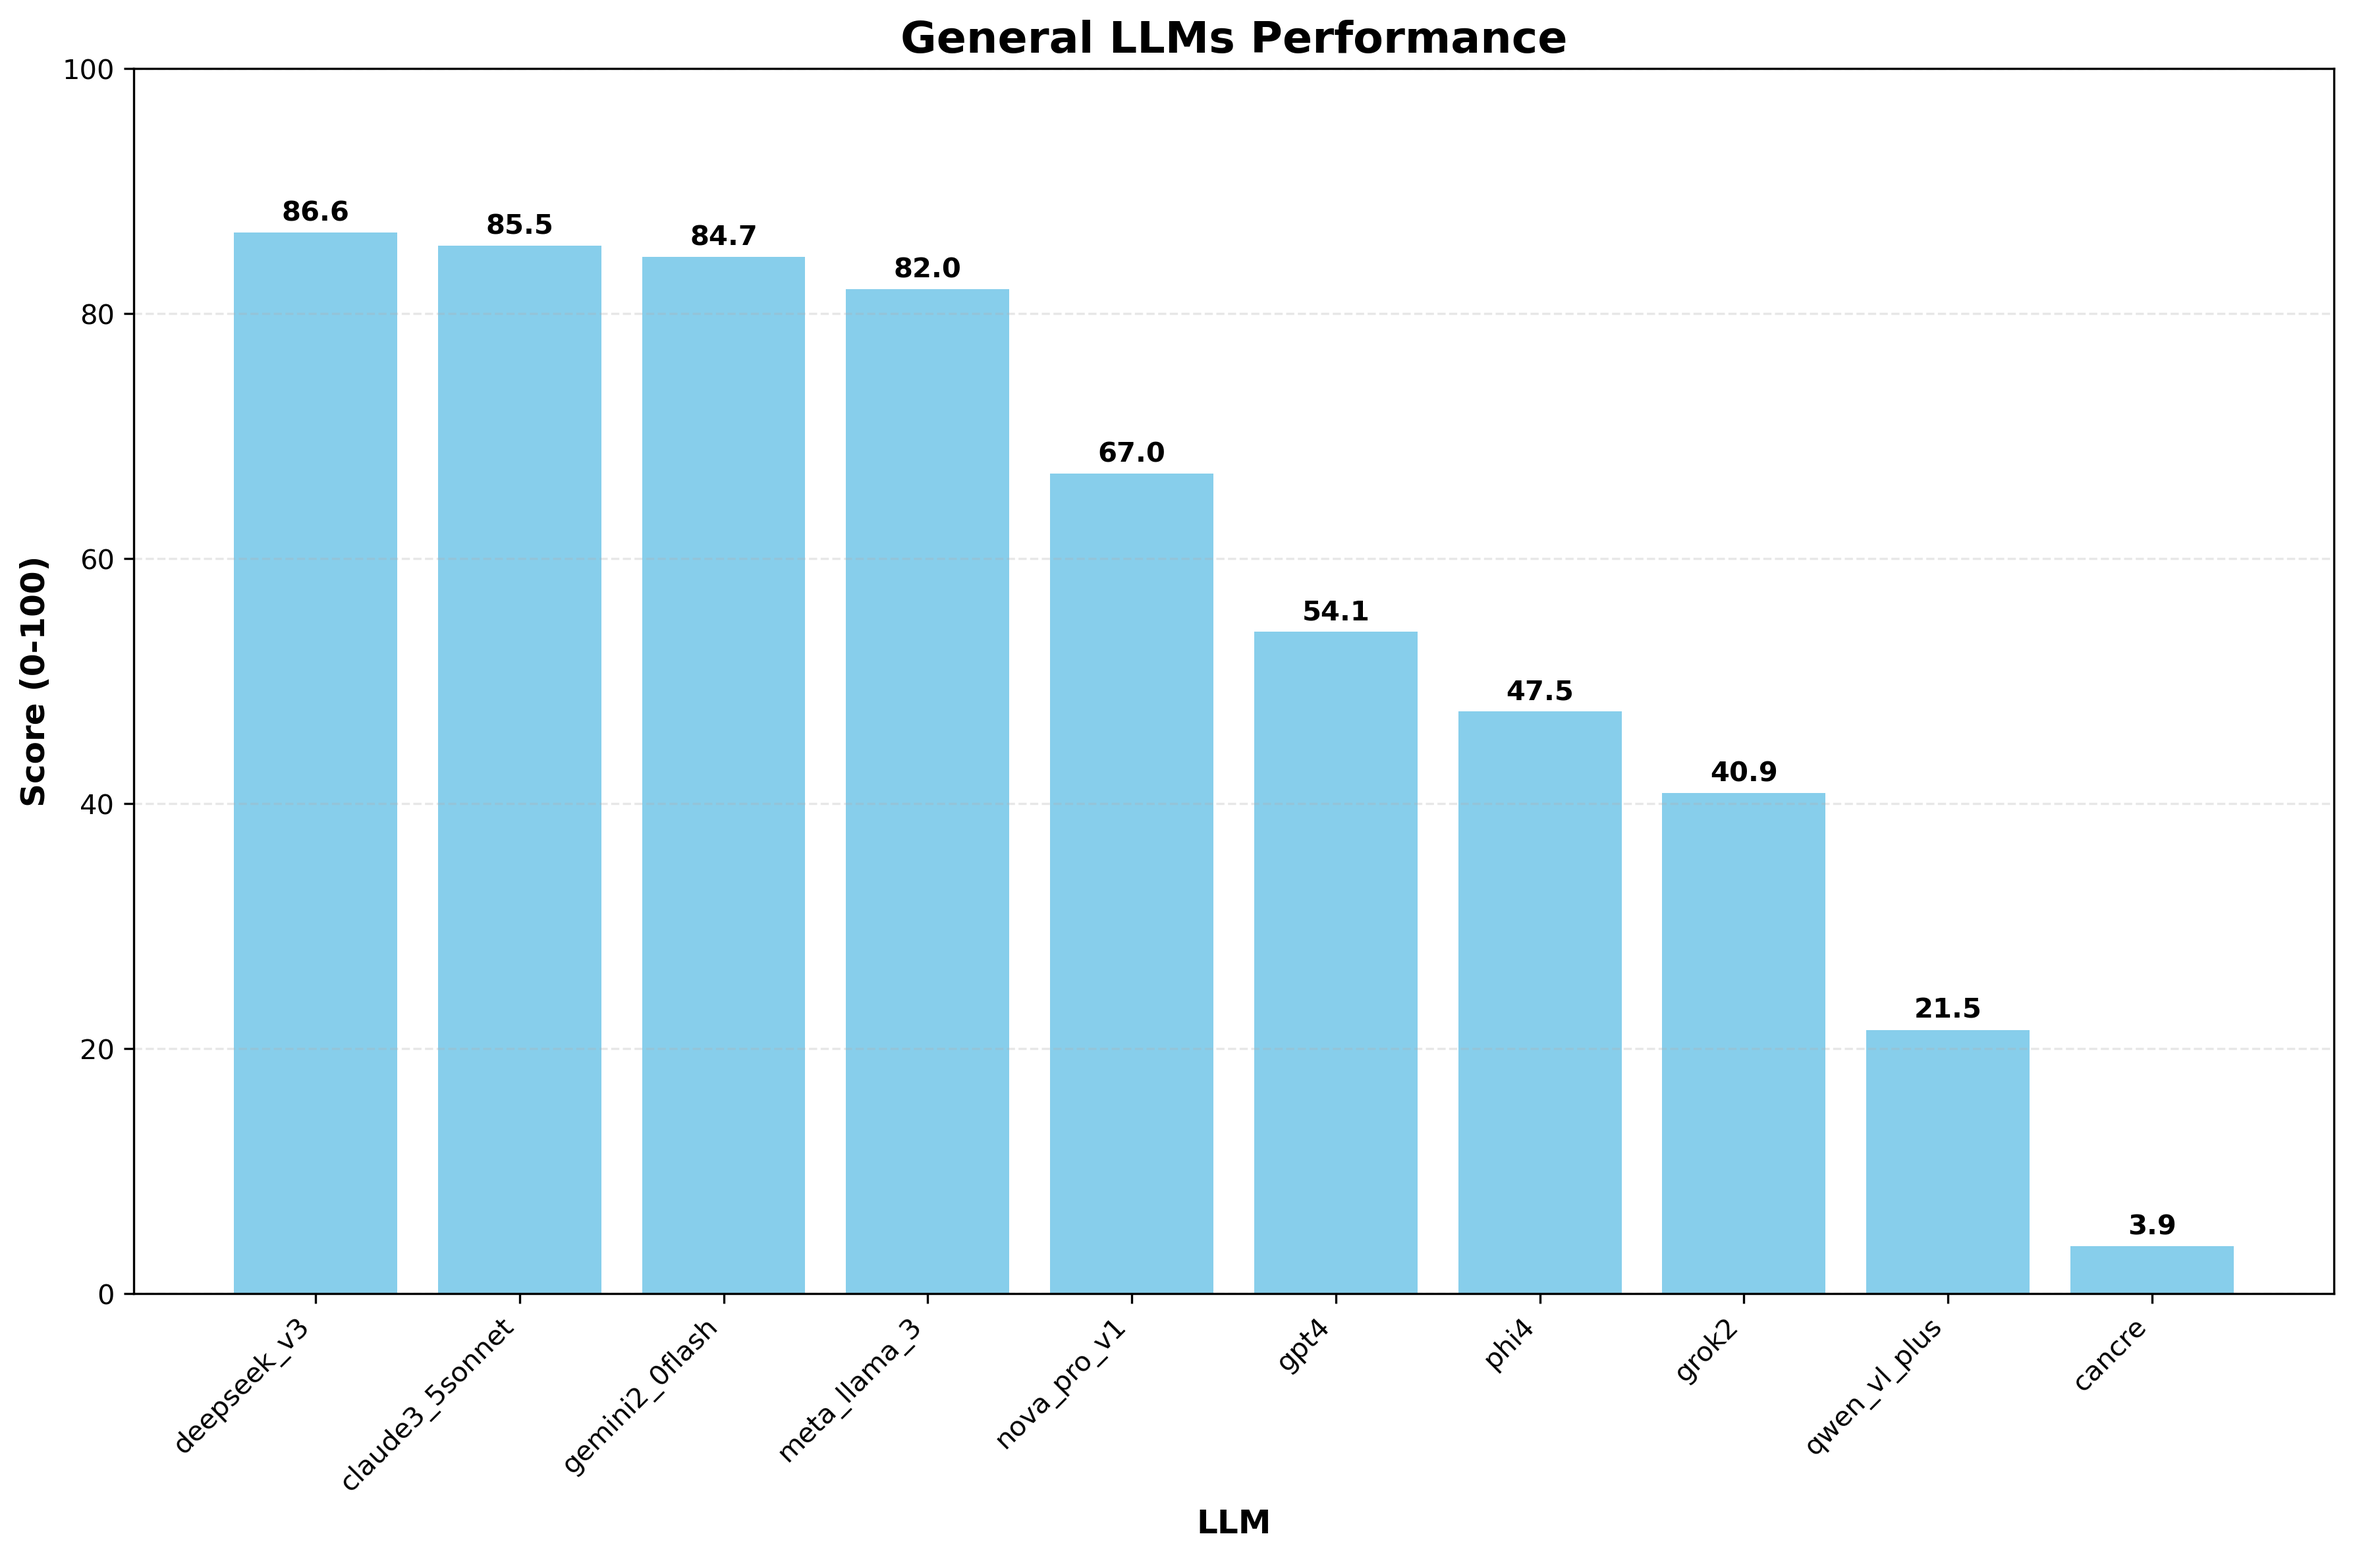
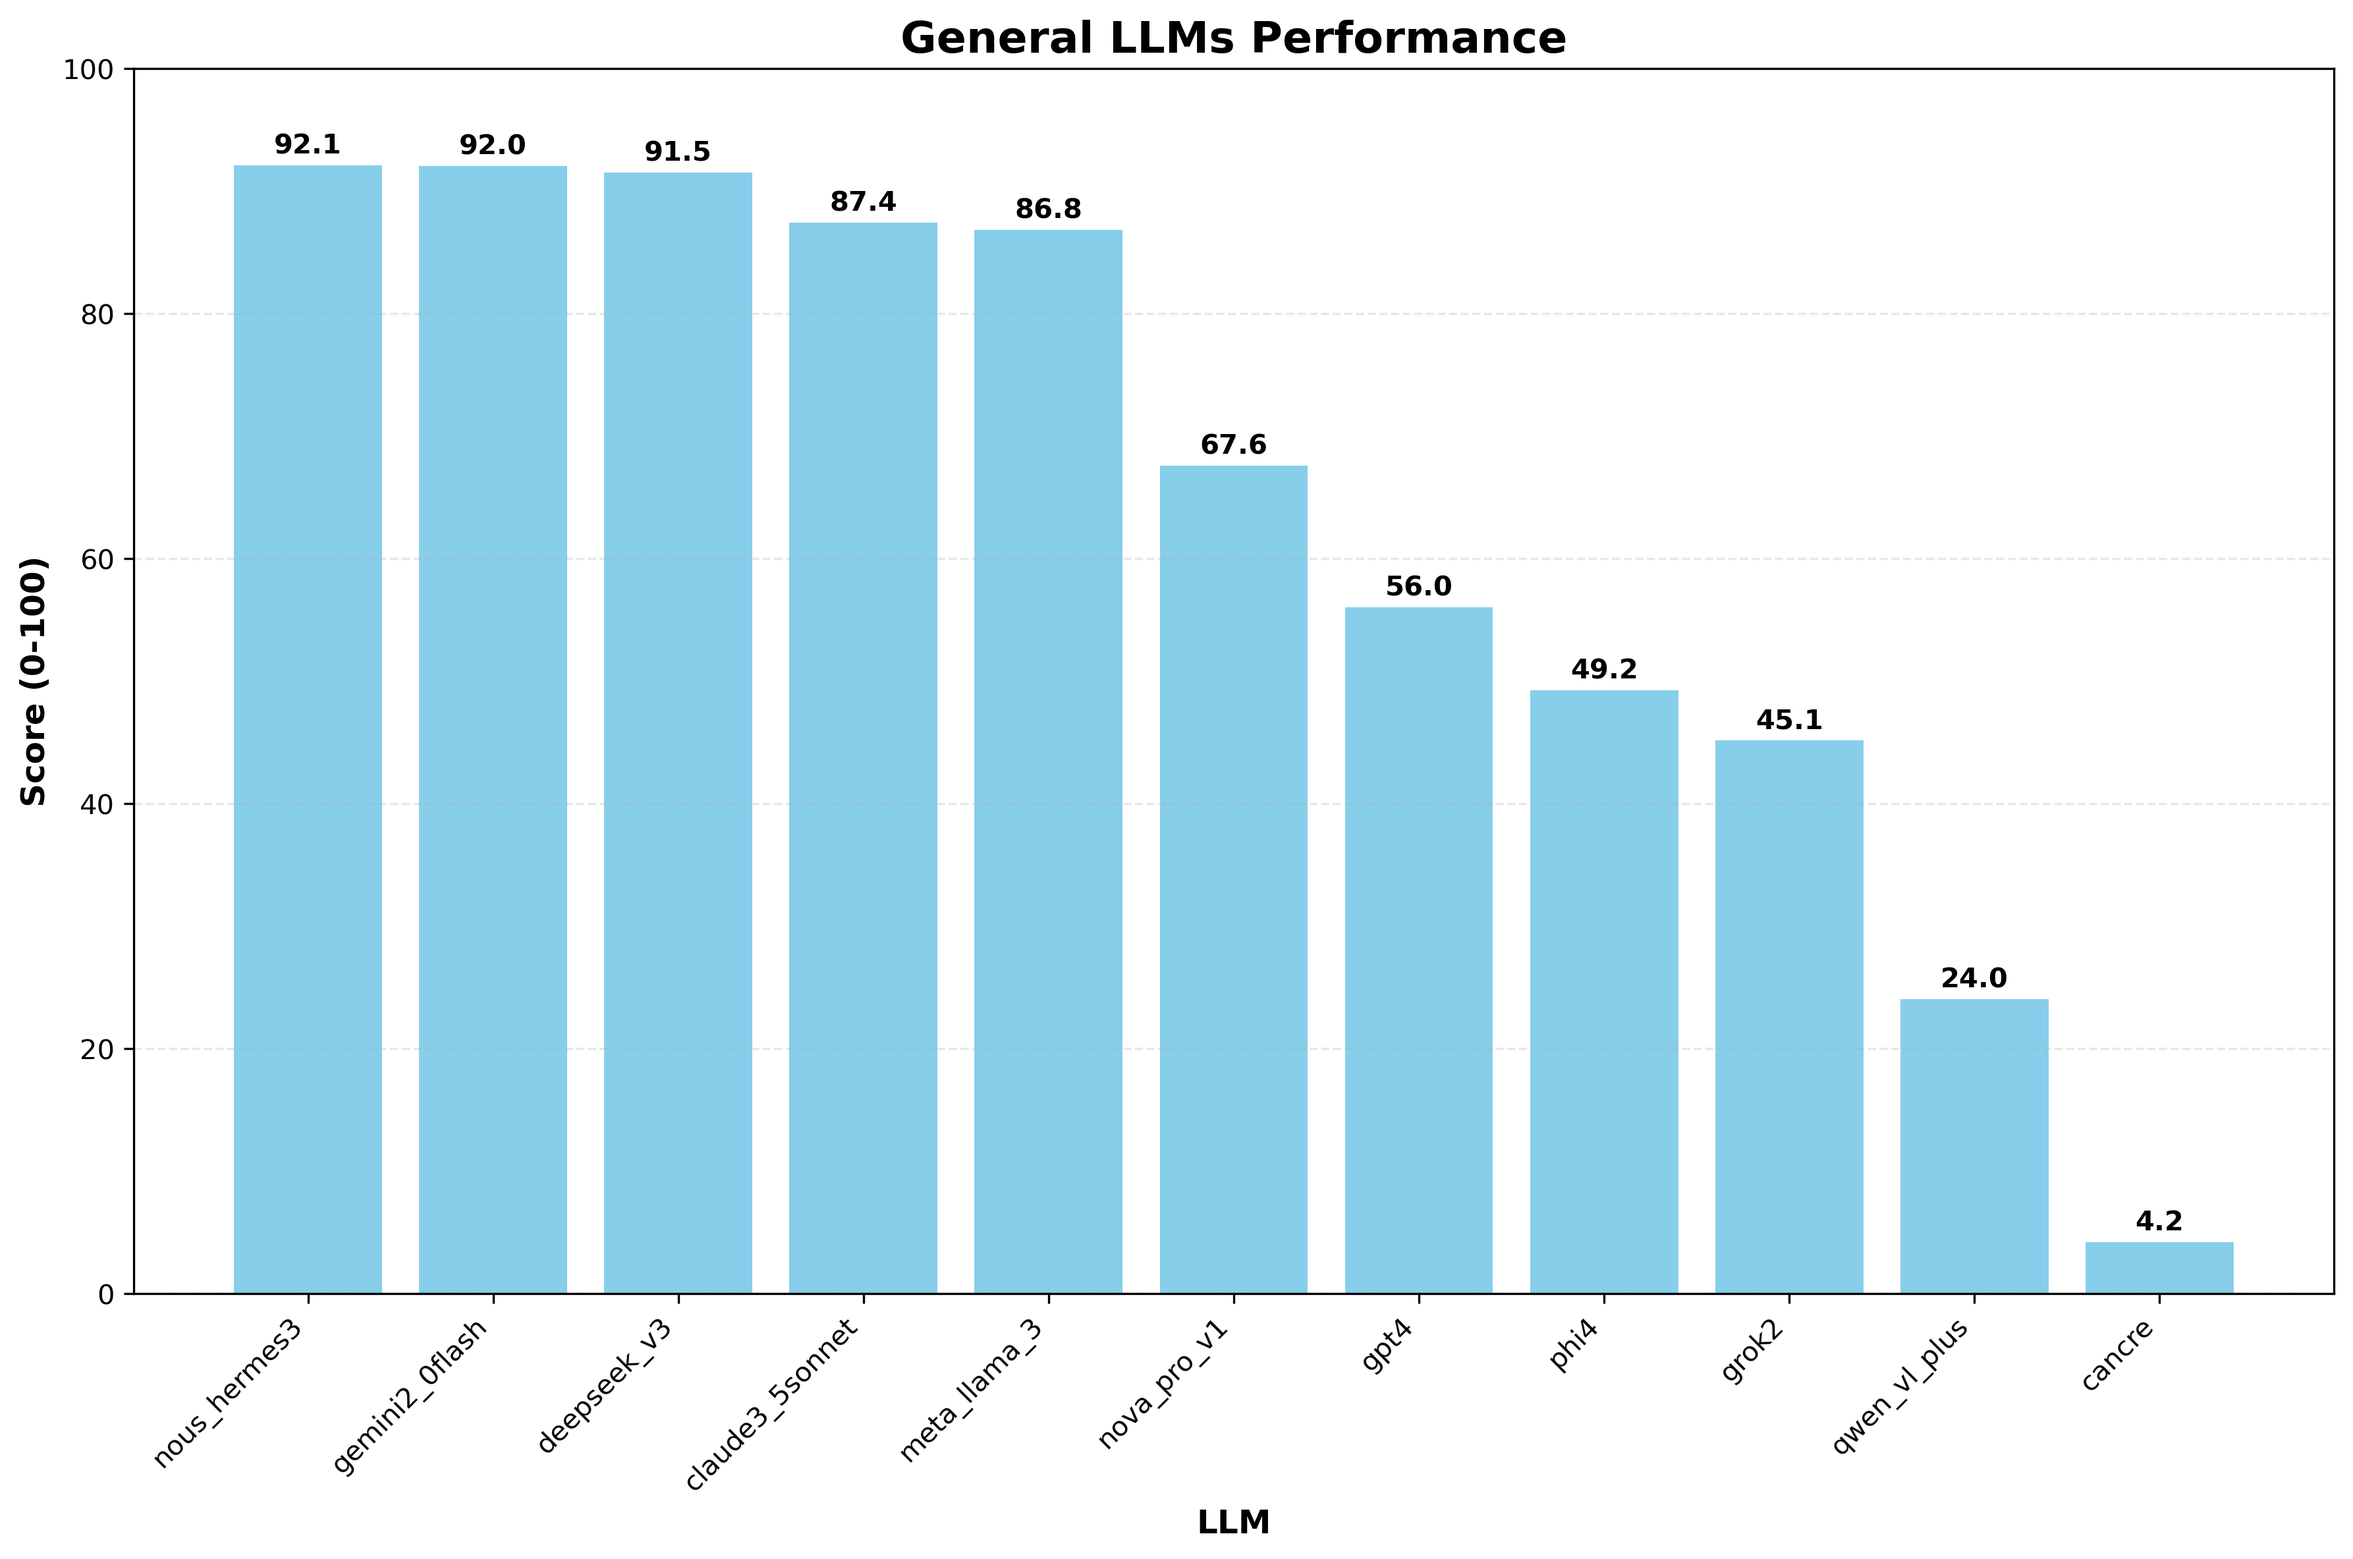
nous hermes 3 70b

diff --git a/strongly_connected_components/nous_hermes3.py b/strongly_connected_components/nous_hermes3.py
@@ -1,0 +1,49 @@
+from collections import defaultdict
+
+def dfs(graph, node, visited, stack):
+    visited[node] = True
+    for neighbor in graph[node]:
+        if not visited[neighbor]:
+            dfs(graph, neighbor, visited, stack)
+    stack.append(node)
+
+def reverse_graph(graph):
+    reversed_graph = defaultdict(list)
+    for node in graph:
+        for neighbor in graph[node]:
+            reversed_graph[neighbor].append(node)
+    return reversed_graph
+
+def dfs_scc(reversed_graph, node, visited, scc):
+    visited[node] = True
+    scc.append(node)
+    for neighbor in reversed_graph[node]:
+        if not visited[neighbor]:
+            dfs_scc(reversed_graph, neighbor, visited, scc)
+
+def count_scc(graph):
+    visited = defaultdict(bool)
+    stack = []
+    for node in graph:
+        if not visited[node]:
+            dfs(graph, node, visited, stack)
+
+    reversed_graph = reverse_graph(graph)
+    visited = defaultdict(bool)
+    scc_count = 0
+    while stack:
+        node = stack.pop()
+        if not visited[node]:
+            scc = []
+            dfs_scc(reversed_graph, node, visited, scc)
+            scc_count += 1
+    return scc_count
+
+n, m = map(int, input().split())
+graph = defaultdict(list)
+for _ in range(m):
+    u, v = map(int, input().split())
+    graph[u].append(v)
+
+result = count_scc(graph)
+print(result)

diff --git a/sat_solver/nous_hermes3.py b/sat_solver/nous_hermes3.py
@@ -1,0 +1,39 @@
+def sat_solver(n, m, clauses):
+    def find_satisfying_assignment(clauses, assignment, index):
+        if index == n:
+            if all(eval_clause(clause, assignment) for clause in clauses):
+                return assignment
+            return None
+        assignment[index] = 1
+        sat = find_satisfying_assignment(clauses, assignment, index + 1)
+        if sat is not None:
+            return sat
+        assignment[index] = 0
+        return find_satisfying_assignment(clauses, assignment, index + 1)
+
+    def eval_clause(clause, assignment):
+        for literal in clause:
+            if literal > 0:
+                if assignment[literal - 1]:
+                    return True
+            else:
+                if not assignment[-literal - 1]:
+                    return True
+        return False
+
+    assignment = [None] * n
+    sat_assignment = find_satisfying_assignment(clauses, assignment, 0)
+    if sat_assignment is None:
+        print("UNSAT")
+    else:
+        print("SAT")
+        print(*sat_assignment)
+
+
+n, m = map(int, input().split())
+clauses = []
+for _ in range(m):
+    clause = list(map(int, input().split()))[:-1]
+    clauses.append(clause)
+
+sat_solver(n, m, clauses)

diff --git a/reduced_row_echelon/nous_hermes3.py b/reduced_row_echelon/nous_hermes3.py
@@ -1,0 +1,36 @@
+def matrix_rank_over_gf2(matrix):
+    rows = len(matrix)
+    cols = len(matrix[0])
+    rank = 0
+    
+    for col in range(cols):
+        if col >= rows:
+            break
+        
+        row = col
+        while row < rows and matrix[row][col] == 0:
+            row += 1
+        
+        if row == rows:
+            continue
+        
+        if row != col:
+            matrix[col], matrix[row] = matrix[row], matrix[col]
+        
+        for row2 in range(row + 1, rows):
+            if matrix[row2][col] == 1:
+                for col2 in range(col, cols):
+                    matrix[row2][col2] ^= matrix[col][col2]
+        
+        rank += 1
+    
+    return rank
+
+def main():
+    n, m = map(int, input().split())
+    matrix = [list(map(int, input().split())) for _ in range(n)]
+    rank = matrix_rank_over_gf2(matrix)
+    print(rank)
+
+if __name__ == "__main__":
+    main()

diff --git a/primality/nous_hermes3.py b/primality/nous_hermes3.py
@@ -1,0 +1,37 @@
+import random
+
+def is_prime(n, k=5):
+    if n == 1:
+        return False
+    if n <= 3:
+        return True
+    if n % 2 == 0 or n % 3 == 0:
+        return False
+
+    r, s = 0, n - 1
+    while s % 2 == 0:
+        r += 1
+        s //= 2
+
+    for _ in range(k):
+        a = random.randint(2, n - 2)
+        x = pow(a, s, n)
+        if x == 1 or x == n - 1:
+            continue
+        for _ in range(r - 1):
+            x = pow(x, 2, n)
+            if x == n - 1:
+                break
+        else:
+            return False
+    return True
+
+t = int(input())
+for _ in range(t):
+    n = int(input())
+    if n == 1:
+        print("NEITHER")
+    elif is_prime(n):
+        print("PRIME")
+    else:
+        print("COMPOSITE")

diff --git a/generate_plot.py b/generate_plot.py
@@ -83,7 +83,7 @@ def create_plot(scores):
     sorted_scores = dict(sorted(scores.items(), key=lambda x: x[1], reverse=True))
     
     # Define non-code assistants (all others are code assistants)
-    non_code_assistants = {'deepseek_v3', 'gpt4', 'grok2', 'claude3_5sonnet', 'gemini2_0flash', 'meta_llama_3', 'qwen_vl_plus', 'phi4', 'nova_pro_v1'}
+    non_code_assistants = {'deepseek_v3', 'gpt4', 'grok2', 'claude3_5sonnet', 'gemini2_0flash', 'meta_llama_3', 'qwen_vl_plus', 'phi4', 'nova_pro_v1', 'nous_hermes3'}
     
     # Split scores into two groups
     code_scores = {k: v for k, v in sorted_scores.items() if k not in non_code_assistants}

diff --git a/balanced_brackets/nous_hermes3.py b/balanced_brackets/nous_hermes3.py
@@ -1,0 +1,20 @@
+def is_balanced(brackets):
+    stack = []
+    opening_brackets = "([{"
+    closing_brackets = ")]}"
+    bracket_pairs = {")": "(", "]": "[", "}": "{"}
+
+    for bracket in brackets:
+        if bracket in opening_brackets:
+            stack.append(bracket)
+        elif bracket in closing_brackets:
+            if not stack or stack.pop() != bracket_pairs[bracket]:
+                return "NO"
+
+    return "YES" if not stack else "NO"
+
+
+n = int(input())
+brackets = input()
+
+print(is_balanced(brackets))

diff --git a/hash_calculator/nous_hermes3.py b/hash_calculator/nous_hermes3.py
@@ -1,0 +1,18 @@
+import hashlib
+import base64
+
+def hash_chain(s):
+    s = s.encode('utf-8')
+    s = hashlib.sha256(s).digest()
+    s = base64.b64encode(s)
+    s = hashlib.new('ripemd160', s).digest()
+    s = s.hex().upper()
+    s = hashlib.sha1(s.encode()).hexdigest()
+    s = s.lower()
+    s = hashlib.sha512(s.encode()).digest()[:32]
+    s = hashlib.md5(s).digest()
+    s = hashlib.sha384(s).hexdigest()
+    return s
+
+s = input()
+print(hash_chain(s))

diff --git a/openrouter_bot.py b/openrouter_bot.py
@@ -9,7 +9,6 @@ def get_available_models():
     """Get list of available models from OpenRouter."""
     headers = {
         "Authorization": f"Bearer {os.getenv('OPENROUTER_API_KEY')}",
-        "HTTP-Referer": "https://github.com/pauld/llm-benchmarking",
         "X-Title": "LLM Benchmarking"
     }
     

diff --git a/list_sorting/nous_hermes3.py b/list_sorting/nous_hermes3.py
@@ -1,0 +1,13 @@
+import sys
+
+def main():
+    input_line = sys.stdin.readline().strip()
+    
+    integer_list = [int(x) for x in input_line.split()]
+    
+    sorted_list = sorted(integer_list)
+    
+    print(' '.join(map(str, sorted_list)))
+
+if __name__ == '__main__':
+    main()
